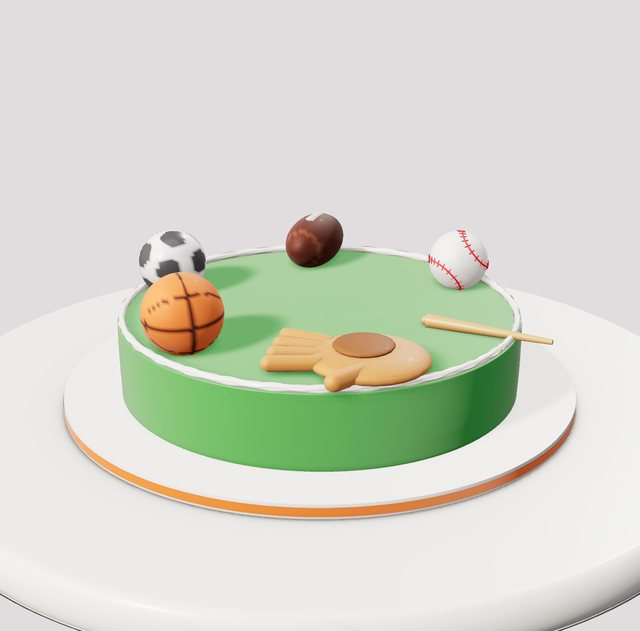
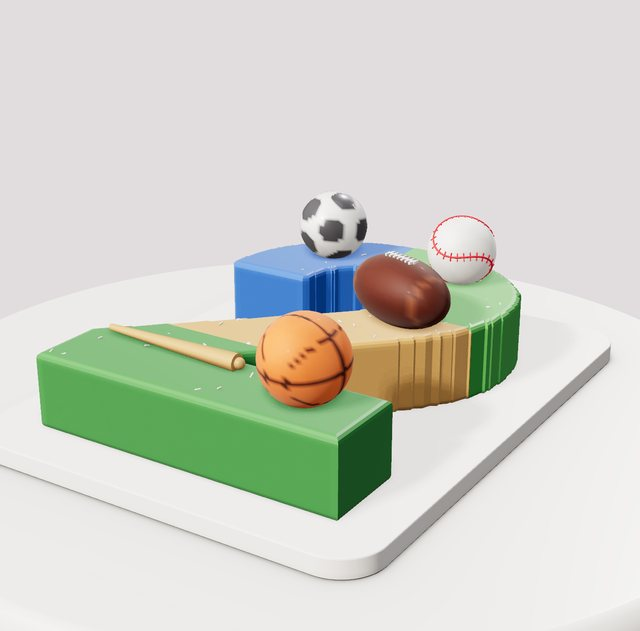
Signature sports: back to a number 2 with crisp colored sports zones (new number zones option)
Claude-Session: https://claude.ai/code/session_016sN14hzH19WJ5zrp8o2QGp

diff --git a/studio.html b/studio.html
@@ -1570,6 +1570,19 @@ DECOR.plaque={label:'Happy Birthday Plaque',layouts:['band'],layout:'band',count
 DECOR_ICONS.poplabel=di('<circle cx="20" cy="20" r="13" fill="#fff" stroke="#d62839" stroke-width="3"/><text x="20" y="24" font-size="9" text-anchor="middle" fill="#d62839" font-weight="900">POP</text>');
 DECOR_ICONS.plaque=di('<rect x="4" y="12" width="32" height="16" rx="3" fill="#1d1b1f" stroke="#fff"/><text x="20" y="23" font-size="7" text-anchor="middle" fill="#fff" font-weight="900">HAPPY</text>');
 {const c=DECOR_CATS.find(x=>x.key==='signature');c.items.push('poplabel','plaque')}
+// ---- sports board top: four colored fields with white markings ----
+function sportsTopParts(q,c,mode,dc){const RAD=(dc&&dc.rad)||1;const F=(r0,r1,a0,da,y)=>{const g=new T.RingGeometry(r0,r1,64,1,a0,da);g.rotateX(-PI/2);g.translate(0,y,0);return g};
+ const P=PI/2,col=[['#3f8f45',0],['#d9893a',P],['#2f6fd0',2*P],['#5cb04e',3*P]],out=[];
+ col.forEach(([cl,a])=>out.push([dmat(cl,{r:.55,cc:.2}),F(0,1,a+.01,P-.02,.05)]));
+ const w=[];for(const r of[.3,.42,.54,.66,.78,.9])w.push(F(r-.012,r+.012,0+.02,P-.04,.065));
+ w.push(F(.52,.55,P+.02,P-.04,.065),F(.2,.23,P+.02,P-.04,.065));
+ w.push(F(.45,.48,3*P+.02,P-.04,.065),F(.08,.11,0,2*PI,.065));
+ {const d=new T.PlaneGeometry(.34,.34);d.rotateX(-PI/2);d.rotateY(PI/4);d.translate(Math.cos(2.5*P)*.55,.06,-Math.sin(2.5*P)*.55);out.push([dmat('#c99a62',{r:.7}),d]);const d2=new T.PlaneGeometry(.26,.26);d2.rotateX(-PI/2);d2.rotateY(PI/4);d2.translate(Math.cos(2.5*P)*.55,.064,-Math.sin(2.5*P)*.55);out.push([dmat('#4f9a4a',{r:.6}),d2])}
+ for(const a of[0,P,2*P,3*P]){const b=new T.BoxGeometry(2,.012,.03);b.rotateY(a);b.translate(0,.065,0);w.push(b)}
+ out.push([dmat('#fbf7f1',{r:.5}),mg(w)]);out.forEach(([,g])=>g.scale(RAD,1,RAD));return out}
+DECOR.sportstop={label:'Sports Field Top',layouts:['cluster'],layout:'cluster',count:1,max:1,color:'#3f8f45',colors:['#3f8f45'],sp:.3,side:'up',sink:0,tilt:[0,0],spin:0,make:sportsTopParts};
+DECOR_ICONS.sportstop=di('<circle cx="20" cy="20" r="14" fill="#5cb04e"/><path d="M20 20V6A14 14 0 0 1 34 20z" fill="#d9893a"/><path d="M20 20H6A14 14 0 0 0 20 34z" fill="#2f6fd0"/>');
+{const c=DECOR_CATS.find(x=>x.key==='signature');c.items.push('sportstop')}
 
 // ---------- Signature cakes: Sprinkle Me Silly's real cakes, rebuilt in the Studio ----------
 const SIG='Signature Cakes';
@@ -1616,8 +1629,8 @@ THEMES.unshift(
   newTier(8.6,6.6,{color:'#e6f1f7',finish:'fondant',ombre:true,ombreColor:'#5aaee8',top:'none',bottom:'none',decor:[DC('clouds','scatter',22,{color:'#fbf7f1',size:190}),DC('dragees','scatter',30,{color:'#fbf7f1',size:60}),DC('teddy','cluster',2,{color:'#f6efe6',size:380,where:'board',face:95}),DC('abcblocks','cluster',3,{size:260,where:'board',mix:['#fbf7f1']})]}),
   newTier(7.6,6.4,{color:'#e6f1f7',finish:'fondant',ombre:true,ombreColor:'#4aa6e6',top:'none',bottom:'none',decor:[DC('clouds','scatter',18,{color:'#fbf7f1',size:190}),DC('buttons','cascade',70,{color:'#b8913f',rot:-75,size:180,wide:1.4}),DC('ladder','band',1,{color:'#fbf7f1',rot:110,size:240})]}),
   newTier(6.4,5.8,{color:'#e6f1f7',finish:'fondant',ombre:true,ombreColor:'#3c9be0',top:'none',bottom:'none',decor:[DC('clouds','scatter',14,{color:'#fbf7f1',size:180}),DC('balloon','cluster',1,{color:'#7fb0e8',size:440,center:true,face:95})]})]}},
- {key:'sig_sports',name:'All-Star Sports Board',tag:SIG,blurb:'A low round sports board cake with a soccer-green field, football yard lines, an orange basketball court and a blue baseball diamond, topped with a baseball, soccer ball, basketball, football, glove and bat.',d:{board:'white',boardColor:'#e8762c',topper:'none',tiers:[
-  newTier(14,2.6,{color:'#3f9a45',finish:'fondant',top:'rope',pipe:'#fbf7f1',bottom:'none',decor:[DC('glove','crown',1,{size:330,rot:40}),DC('hoopball','crown',1,{size:300,rot:110}),DC('soccerball','crown',1,{size:290,rot:170}),DC('football','crown',1,{size:290,rot:235}),DC('baseball2','crown',1,{size:270,rot:300}),DC('bat','crown',1,{size:230,rot:350})]})]}},
+ {key:'sig_sports',name:'All-Star Sports Number',tag:SIG,blurb:'A number 2 cut into sports zones: a blue baseball corner, a green soccer field, a wood basketball court and a striped football field, with a baseball and bat, soccer ball, basketball and football on an orange board.',d:{cakeType:'number',number:{text:'2',height:13,layers:2,cake:'vanilla',cream:'#3f8f45',style:'frosted',zones:[[0,.42,0,.45,'#2f6fd0'],[0,.42,.45,1,'#4fa84a'],[.42,.74,0,1,'#d6a15a'],[.74,1,0,1,'#3f8f45']]},board:'white',boardColor:'#e8762c',topper:'none',tiers:[
+  newTier(8,4,{decor:[DC('baseball2','cluster',1,{size:260,seed:11}),DC('bat','cluster',1,{size:230,seed:23}),DC('soccerball','cluster',1,{size:260,seed:37}),DC('hoopball','cluster',1,{size:260,seed:5}),DC('football','cluster',1,{size:290,seed:67}),DC('sprinkles','cluster',120,{mix:['#fbf7f1']})]})]}},
  {key:'sig_blocks',name:'Building Block Number',tag:SIG,blurb:'A sunny yellow number 6 with a blue window, a mosaic wall of toy bricks around the side, rainbow sprinkles and bricks on top.',d:{cakeType:'number',number:{text:'6',height:13,layers:2,cake:'vanilla',cream:'#f6c919',style:'frosted',wall:['#e8475f','#2f6fd0','#f2c230','#5cc06c','#2f6fd0','#e8475f','#2a7a3a'],wallH:.95,holeFill:'#2f6fd0'},board:'white',boardColor:'#2f3f6b',topper:'none',tiers:[
   newTier(8,4,{decor:[DC('bricks','cluster',18,{size:250,mix:['#e8475f','#2f6fd0','#5cc06c']}),DC('sprinkles','cluster',260,{mix:['#e8475f','#2f6fd0','#5cc06c','#f28a3a','#fbf7f1']})]})]}},
  {key:'sig_movie',name:'Movie Night Popcorn',tag:SIG,blurb:'A red and white striped popcorn tier overflowing with popcorn and a "13" Admit One ticket, over a black and white chevron clapperboard tier with stars.',d:{board:'gold',topper:'none',tiers:[
@@ -1713,7 +1726,7 @@ function buildNumber(D,add,setPart){const N=D.number||{},text=(N.text||'1').slic
  let y=bh;const sp=.8*(N.kissSize??1),pts=[];for(let row=0,z=-numSize.d/2-1;z<numSize.d/2+1;z+=sp*.866,row++)for(let x=-numSize.w/2-1+(row%2?sp/2:0);x<numSize.w/2+1;x+=sp)if(N.style!=='frosted'&&N.style!=='naked'&&deep(x,z,sp*.38))pts.push([x,z]);
  const kisses=yy=>{const base=kissBase();for(const[x,z]of pts){const g=base.clone(),s=(N.kissSize??1)*(.92+q()*.16);g.rotateY(q()*6.28);g.scale(s,s*(.95+q()*.12),s);g.translate(x+(q()-.5)*.04,yy,z+(q()-.5)*.04);setPart('kisses');add(creamM,tint(g,1+(q()-.5)*.06))}};
  const style=N.style==='frosted'||N.style==='naked'?N.style:'kisses',ext=(depth,bt,bs)=>{const g=new T.ExtrudeGeometry(shapes,{depth,bevelEnabled:true,bevelThickness:bt,bevelSize:bs,bevelSegments:3,curveSegments:14,steps:1});g.translate(-cx,-cy,0);g.scale(k,k,1);g.rotateX(-PI/2);return g},smoothM=dmat(N.cream||'#fbf7f1',{r:.5,sh:.3});
- if(style==='frosted'){const H=layers*LH+(layers-1)*.2,g=ext(H,.16,.14);g.translate(0,y+.16,0);setPart('number');add(smoothM,g);y+=H+.34}
+ if(style==='frosted'){const H=layers*LH+(layers-1)*.2,g=ext(H,.16,.14);g.translate(0,y+.16,0);setPart('number');if(N.zones&&N.zones.length){g.computeBoundingBox();const bb=g.boundingBox,Z=N.zones.slice(0,6),zr=Z.map(z=>new T.Vector4(z[0],z[1],z[2],z[3])),zc=Z.map(z=>new T.Color(z[4]));while(zr.length<6){zr.push(new T.Vector4(2,2,2,2));zc.push(new T.Color('#fff'))}const zm=smoothM.clone();zm.color.set('#ffffff');zm.onBeforeCompile=s=>{s.uniforms.zR={value:zr};s.uniforms.zC={value:zc};s.uniforms.bMin={value:bb.min.clone()};s.uniforms.bMax={value:bb.max.clone()};s.uniforms.zBase={value:new T.Color(N.cream||'#ffffff')};s.vertexShader='varying vec3 vZp;\n'+s.vertexShader.replace('#include <begin_vertex>','#include <begin_vertex>\nvZp=position;');s.fragmentShader='varying vec3 vZp;uniform vec4 zR[6];uniform vec3 zC[6];uniform vec3 bMin;uniform vec3 bMax;uniform vec3 zBase;\n'+s.fragmentShader.replace('#include <color_fragment>','#include <color_fragment>\n{float u=(vZp.x-bMin.x)/(bMax.x-bMin.x),v=(vZp.z-bMin.z)/(bMax.z-bMin.z);vec3 zc=zBase;for(int k=5;k>=0;k--){vec4 r=zR[k];if(v>=r.x&&v<r.y&&u>=r.z&&u<r.w)zc=zC[k];}diffuseColor.rgb*=zc;}')};zm.customProgramCacheKey=()=>'zones'+JSON.stringify(N.zones);add(zm,g)}else add(smoothM,g);y+=H+.34}
  else if(style==='naked'){for(let L=0;L<layers;L++){const g=ext(LH,.1,.08);g.translate(0,y+.1,0);setPart('number');add(cakeM,g);y+=LH+.2;const f=ext(.14,.04,.03);f.translate(0,y-.08,0);setPart('kisses');add(smoothM,f);y+=.08}}
  else for(let L=0;L<layers;L++){const g=ext(LH,.1,.08);g.translate(0,y+.1,0);setPart('number');add(cakeM,g);y+=LH+.2;kisses(y-.06);y+=kh*.92}
  // Optional brick wall around the sides (toy brick cakes) and a filled-in center (a window in the 6, 8, 0, 9...)

diff --git a/tools/signature-decor.js b/tools/signature-decor.js
@@ -238,6 +238,19 @@ DECOR.plaque={label:'Happy Birthday Plaque',layouts:['band'],layout:'band',count
 DECOR_ICONS.poplabel=di('<circle cx="20" cy="20" r="13" fill="#fff" stroke="#d62839" stroke-width="3"/><text x="20" y="24" font-size="9" text-anchor="middle" fill="#d62839" font-weight="900">POP</text>');
 DECOR_ICONS.plaque=di('<rect x="4" y="12" width="32" height="16" rx="3" fill="#1d1b1f" stroke="#fff"/><text x="20" y="23" font-size="7" text-anchor="middle" fill="#fff" font-weight="900">HAPPY</text>');
 {const c=DECOR_CATS.find(x=>x.key==='signature');c.items.push('poplabel','plaque')}
+// ---- sports board top: four colored fields with white markings ----
+function sportsTopParts(q,c,mode,dc){const RAD=(dc&&dc.rad)||1;const F=(r0,r1,a0,da,y)=>{const g=new T.RingGeometry(r0,r1,64,1,a0,da);g.rotateX(-PI/2);g.translate(0,y,0);return g};
+ const P=PI/2,col=[['#3f8f45',0],['#d9893a',P],['#2f6fd0',2*P],['#5cb04e',3*P]],out=[];
+ col.forEach(([cl,a])=>out.push([dmat(cl,{r:.55,cc:.2}),F(0,1,a+.01,P-.02,.05)]));
+ const w=[];for(const r of[.3,.42,.54,.66,.78,.9])w.push(F(r-.012,r+.012,0+.02,P-.04,.065));
+ w.push(F(.52,.55,P+.02,P-.04,.065),F(.2,.23,P+.02,P-.04,.065));
+ w.push(F(.45,.48,3*P+.02,P-.04,.065),F(.08,.11,0,2*PI,.065));
+ {const d=new T.PlaneGeometry(.34,.34);d.rotateX(-PI/2);d.rotateY(PI/4);d.translate(Math.cos(2.5*P)*.55,.06,-Math.sin(2.5*P)*.55);out.push([dmat('#c99a62',{r:.7}),d]);const d2=new T.PlaneGeometry(.26,.26);d2.rotateX(-PI/2);d2.rotateY(PI/4);d2.translate(Math.cos(2.5*P)*.55,.064,-Math.sin(2.5*P)*.55);out.push([dmat('#4f9a4a',{r:.6}),d2])}
+ for(const a of[0,P,2*P,3*P]){const b=new T.BoxGeometry(2,.012,.03);b.rotateY(a);b.translate(0,.065,0);w.push(b)}
+ out.push([dmat('#fbf7f1',{r:.5}),mg(w)]);out.forEach(([,g])=>g.scale(RAD,1,RAD));return out}
+DECOR.sportstop={label:'Sports Field Top',layouts:['cluster'],layout:'cluster',count:1,max:1,color:'#3f8f45',colors:['#3f8f45'],sp:.3,side:'up',sink:0,tilt:[0,0],spin:0,make:sportsTopParts};
+DECOR_ICONS.sportstop=di('<circle cx="20" cy="20" r="14" fill="#5cb04e"/><path d="M20 20V6A14 14 0 0 1 34 20z" fill="#d9893a"/><path d="M20 20H6A14 14 0 0 0 20 34z" fill="#2f6fd0"/>');
+{const c=DECOR_CATS.find(x=>x.key==='signature');c.items.push('sportstop')}
 
 // ---------- Signature cakes: Sprinkle Me Silly's real cakes, rebuilt in the Studio ----------
 const SIG='Signature Cakes';
@@ -284,8 +297,8 @@ THEMES.unshift(
   newTier(8.6,6.6,{color:'#e6f1f7',finish:'fondant',ombre:true,ombreColor:'#5aaee8',top:'none',bottom:'none',decor:[DC('clouds','scatter',22,{color:'#fbf7f1',size:190}),DC('dragees','scatter',30,{color:'#fbf7f1',size:60}),DC('teddy','cluster',2,{color:'#f6efe6',size:380,where:'board',face:95}),DC('abcblocks','cluster',3,{size:260,where:'board',mix:['#fbf7f1']})]}),
   newTier(7.6,6.4,{color:'#e6f1f7',finish:'fondant',ombre:true,ombreColor:'#4aa6e6',top:'none',bottom:'none',decor:[DC('clouds','scatter',18,{color:'#fbf7f1',size:190}),DC('buttons','cascade',70,{color:'#b8913f',rot:-75,size:180,wide:1.4}),DC('ladder','band',1,{color:'#fbf7f1',rot:110,size:240})]}),
   newTier(6.4,5.8,{color:'#e6f1f7',finish:'fondant',ombre:true,ombreColor:'#3c9be0',top:'none',bottom:'none',decor:[DC('clouds','scatter',14,{color:'#fbf7f1',size:180}),DC('balloon','cluster',1,{color:'#7fb0e8',size:440,center:true,face:95})]})]}},
- {key:'sig_sports',name:'All-Star Sports Board',tag:SIG,blurb:'A low round sports board cake with a soccer-green field, football yard lines, an orange basketball court and a blue baseball diamond, topped with a baseball, soccer ball, basketball, football, glove and bat.',d:{board:'white',boardColor:'#e8762c',topper:'none',tiers:[
-  newTier(14,2.6,{color:'#3f9a45',finish:'fondant',top:'rope',pipe:'#fbf7f1',bottom:'none',decor:[DC('glove','crown',1,{size:330,rot:40}),DC('hoopball','crown',1,{size:300,rot:110}),DC('soccerball','crown',1,{size:290,rot:170}),DC('football','crown',1,{size:290,rot:235}),DC('baseball2','crown',1,{size:270,rot:300}),DC('bat','crown',1,{size:230,rot:350})]})]}},
+ {key:'sig_sports',name:'All-Star Sports Number',tag:SIG,blurb:'A number 2 cut into sports zones: a blue baseball corner, a green soccer field, a wood basketball court and a striped football field, with a baseball and bat, soccer ball, basketball and football on an orange board.',d:{cakeType:'number',number:{text:'2',height:13,layers:2,cake:'vanilla',cream:'#3f8f45',style:'frosted',zones:[[0,.42,0,.45,'#2f6fd0'],[0,.42,.45,1,'#4fa84a'],[.42,.74,0,1,'#d6a15a'],[.74,1,0,1,'#3f8f45']]},board:'white',boardColor:'#e8762c',topper:'none',tiers:[
+  newTier(8,4,{decor:[DC('baseball2','cluster',1,{size:260,seed:11}),DC('bat','cluster',1,{size:230,seed:23}),DC('soccerball','cluster',1,{size:260,seed:37}),DC('hoopball','cluster',1,{size:260,seed:5}),DC('football','cluster',1,{size:290,seed:67}),DC('sprinkles','cluster',120,{mix:['#fbf7f1']})]})]}},
  {key:'sig_blocks',name:'Building Block Number',tag:SIG,blurb:'A sunny yellow number 6 with a blue window, a mosaic wall of toy bricks around the side, rainbow sprinkles and bricks on top.',d:{cakeType:'number',number:{text:'6',height:13,layers:2,cake:'vanilla',cream:'#f6c919',style:'frosted',wall:['#e8475f','#2f6fd0','#f2c230','#5cc06c','#2f6fd0','#e8475f','#2a7a3a'],wallH:.95,holeFill:'#2f6fd0'},board:'white',boardColor:'#2f3f6b',topper:'none',tiers:[
   newTier(8,4,{decor:[DC('bricks','cluster',18,{size:250,mix:['#e8475f','#2f6fd0','#5cc06c']}),DC('sprinkles','cluster',260,{mix:['#e8475f','#2f6fd0','#5cc06c','#f28a3a','#fbf7f1']})]})]}},
  {key:'sig_movie',name:'Movie Night Popcorn',tag:SIG,blurb:'A red and white striped popcorn tier overflowing with popcorn and a "13" Admit One ticket, over a black and white chevron clapperboard tier with stars.',d:{board:'gold',topper:'none',tiers:[

diff --git a/tools/sig-themes.js b/tools/sig-themes.js
@@ -43,8 +43,8 @@ THEMES.unshift(
   newTier(8.6,6.6,{color:'#e6f1f7',finish:'fondant',ombre:true,ombreColor:'#5aaee8',top:'none',bottom:'none',decor:[DC('clouds','scatter',22,{color:'#fbf7f1',size:190}),DC('dragees','scatter',30,{color:'#fbf7f1',size:60}),DC('teddy','cluster',2,{color:'#f6efe6',size:380,where:'board',face:95}),DC('abcblocks','cluster',3,{size:260,where:'board',mix:['#fbf7f1']})]}),
   newTier(7.6,6.4,{color:'#e6f1f7',finish:'fondant',ombre:true,ombreColor:'#4aa6e6',top:'none',bottom:'none',decor:[DC('clouds','scatter',18,{color:'#fbf7f1',size:190}),DC('buttons','cascade',70,{color:'#b8913f',rot:-75,size:180,wide:1.4}),DC('ladder','band',1,{color:'#fbf7f1',rot:110,size:240})]}),
   newTier(6.4,5.8,{color:'#e6f1f7',finish:'fondant',ombre:true,ombreColor:'#3c9be0',top:'none',bottom:'none',decor:[DC('clouds','scatter',14,{color:'#fbf7f1',size:180}),DC('balloon','cluster',1,{color:'#7fb0e8',size:440,center:true,face:95})]})]}},
- {key:'sig_sports',name:'All-Star Sports Board',tag:SIG,blurb:'A low round sports board cake with a soccer-green field, football yard lines, an orange basketball court and a blue baseball diamond, topped with a baseball, soccer ball, basketball, football, glove and bat.',d:{board:'white',boardColor:'#e8762c',topper:'none',tiers:[
-  newTier(14,2.6,{color:'#3f9a45',finish:'fondant',top:'rope',pipe:'#fbf7f1',bottom:'none',decor:[DC('glove','crown',1,{size:330,rot:40}),DC('hoopball','crown',1,{size:300,rot:110}),DC('soccerball','crown',1,{size:290,rot:170}),DC('football','crown',1,{size:290,rot:235}),DC('baseball2','crown',1,{size:270,rot:300}),DC('bat','crown',1,{size:230,rot:350})]})]}},
+ {key:'sig_sports',name:'All-Star Sports Number',tag:SIG,blurb:'A number 2 cut into sports zones: a blue baseball corner, a green soccer field, a wood basketball court and a striped football field, with a baseball and bat, soccer ball, basketball and football on an orange board.',d:{cakeType:'number',number:{text:'2',height:13,layers:2,cake:'vanilla',cream:'#3f8f45',style:'frosted',zones:[[0,.42,0,.45,'#2f6fd0'],[0,.42,.45,1,'#4fa84a'],[.42,.74,0,1,'#d6a15a'],[.74,1,0,1,'#3f8f45']]},board:'white',boardColor:'#e8762c',topper:'none',tiers:[
+  newTier(8,4,{decor:[DC('baseball2','cluster',1,{size:260,seed:11}),DC('bat','cluster',1,{size:230,seed:23}),DC('soccerball','cluster',1,{size:260,seed:37}),DC('hoopball','cluster',1,{size:260,seed:5}),DC('football','cluster',1,{size:290,seed:67}),DC('sprinkles','cluster',120,{mix:['#fbf7f1']})]})]}},
  {key:'sig_blocks',name:'Building Block Number',tag:SIG,blurb:'A sunny yellow number 6 with a blue window, a mosaic wall of toy bricks around the side, rainbow sprinkles and bricks on top.',d:{cakeType:'number',number:{text:'6',height:13,layers:2,cake:'vanilla',cream:'#f6c919',style:'frosted',wall:['#e8475f','#2f6fd0','#f2c230','#5cc06c','#2f6fd0','#e8475f','#2a7a3a'],wallH:.95,holeFill:'#2f6fd0'},board:'white',boardColor:'#2f3f6b',topper:'none',tiers:[
   newTier(8,4,{decor:[DC('bricks','cluster',18,{size:250,mix:['#e8475f','#2f6fd0','#5cc06c']}),DC('sprinkles','cluster',260,{mix:['#e8475f','#2f6fd0','#5cc06c','#f28a3a','#fbf7f1']})]})]}},
  {key:'sig_movie',name:'Movie Night Popcorn',tag:SIG,blurb:'A red and white striped popcorn tier overflowing with popcorn and a "13" Admit One ticket, over a black and white chevron clapperboard tier with stars.',d:{board:'gold',topper:'none',tiers:[

diff --git a/tools/sig-extra.js b/tools/sig-extra.js
@@ -63,3 +63,16 @@ DECOR.plaque={label:'Happy Birthday Plaque',layouts:['band'],layout:'band',count
 DECOR_ICONS.poplabel=di('<circle cx="20" cy="20" r="13" fill="#fff" stroke="#d62839" stroke-width="3"/><text x="20" y="24" font-size="9" text-anchor="middle" fill="#d62839" font-weight="900">POP</text>');
 DECOR_ICONS.plaque=di('<rect x="4" y="12" width="32" height="16" rx="3" fill="#1d1b1f" stroke="#fff"/><text x="20" y="23" font-size="7" text-anchor="middle" fill="#fff" font-weight="900">HAPPY</text>');
 {const c=DECOR_CATS.find(x=>x.key==='signature');c.items.push('poplabel','plaque')}
+// ---- sports board top: four colored fields with white markings ----
+function sportsTopParts(q,c,mode,dc){const RAD=(dc&&dc.rad)||1;const F=(r0,r1,a0,da,y)=>{const g=new T.RingGeometry(r0,r1,64,1,a0,da);g.rotateX(-PI/2);g.translate(0,y,0);return g};
+ const P=PI/2,col=[['#3f8f45',0],['#d9893a',P],['#2f6fd0',2*P],['#5cb04e',3*P]],out=[];
+ col.forEach(([cl,a])=>out.push([dmat(cl,{r:.55,cc:.2}),F(0,1,a+.01,P-.02,.05)]));
+ const w=[];for(const r of[.3,.42,.54,.66,.78,.9])w.push(F(r-.012,r+.012,0+.02,P-.04,.065));
+ w.push(F(.52,.55,P+.02,P-.04,.065),F(.2,.23,P+.02,P-.04,.065));
+ w.push(F(.45,.48,3*P+.02,P-.04,.065),F(.08,.11,0,2*PI,.065));
+ {const d=new T.PlaneGeometry(.34,.34);d.rotateX(-PI/2);d.rotateY(PI/4);d.translate(Math.cos(2.5*P)*.55,.06,-Math.sin(2.5*P)*.55);out.push([dmat('#c99a62',{r:.7}),d]);const d2=new T.PlaneGeometry(.26,.26);d2.rotateX(-PI/2);d2.rotateY(PI/4);d2.translate(Math.cos(2.5*P)*.55,.064,-Math.sin(2.5*P)*.55);out.push([dmat('#4f9a4a',{r:.6}),d2])}
+ for(const a of[0,P,2*P,3*P]){const b=new T.BoxGeometry(2,.012,.03);b.rotateY(a);b.translate(0,.065,0);w.push(b)}
+ out.push([dmat('#fbf7f1',{r:.5}),mg(w)]);out.forEach(([,g])=>g.scale(RAD,1,RAD));return out}
+DECOR.sportstop={label:'Sports Field Top',layouts:['cluster'],layout:'cluster',count:1,max:1,color:'#3f8f45',colors:['#3f8f45'],sp:.3,side:'up',sink:0,tilt:[0,0],spin:0,make:sportsTopParts};
+DECOR_ICONS.sportstop=di('<circle cx="20" cy="20" r="14" fill="#5cb04e"/><path d="M20 20V6A14 14 0 0 1 34 20z" fill="#d9893a"/><path d="M20 20H6A14 14 0 0 0 20 34z" fill="#2f6fd0"/>');
+{const c=DECOR_CATS.find(x=>x.key==='signature');c.items.push('sportstop')}
